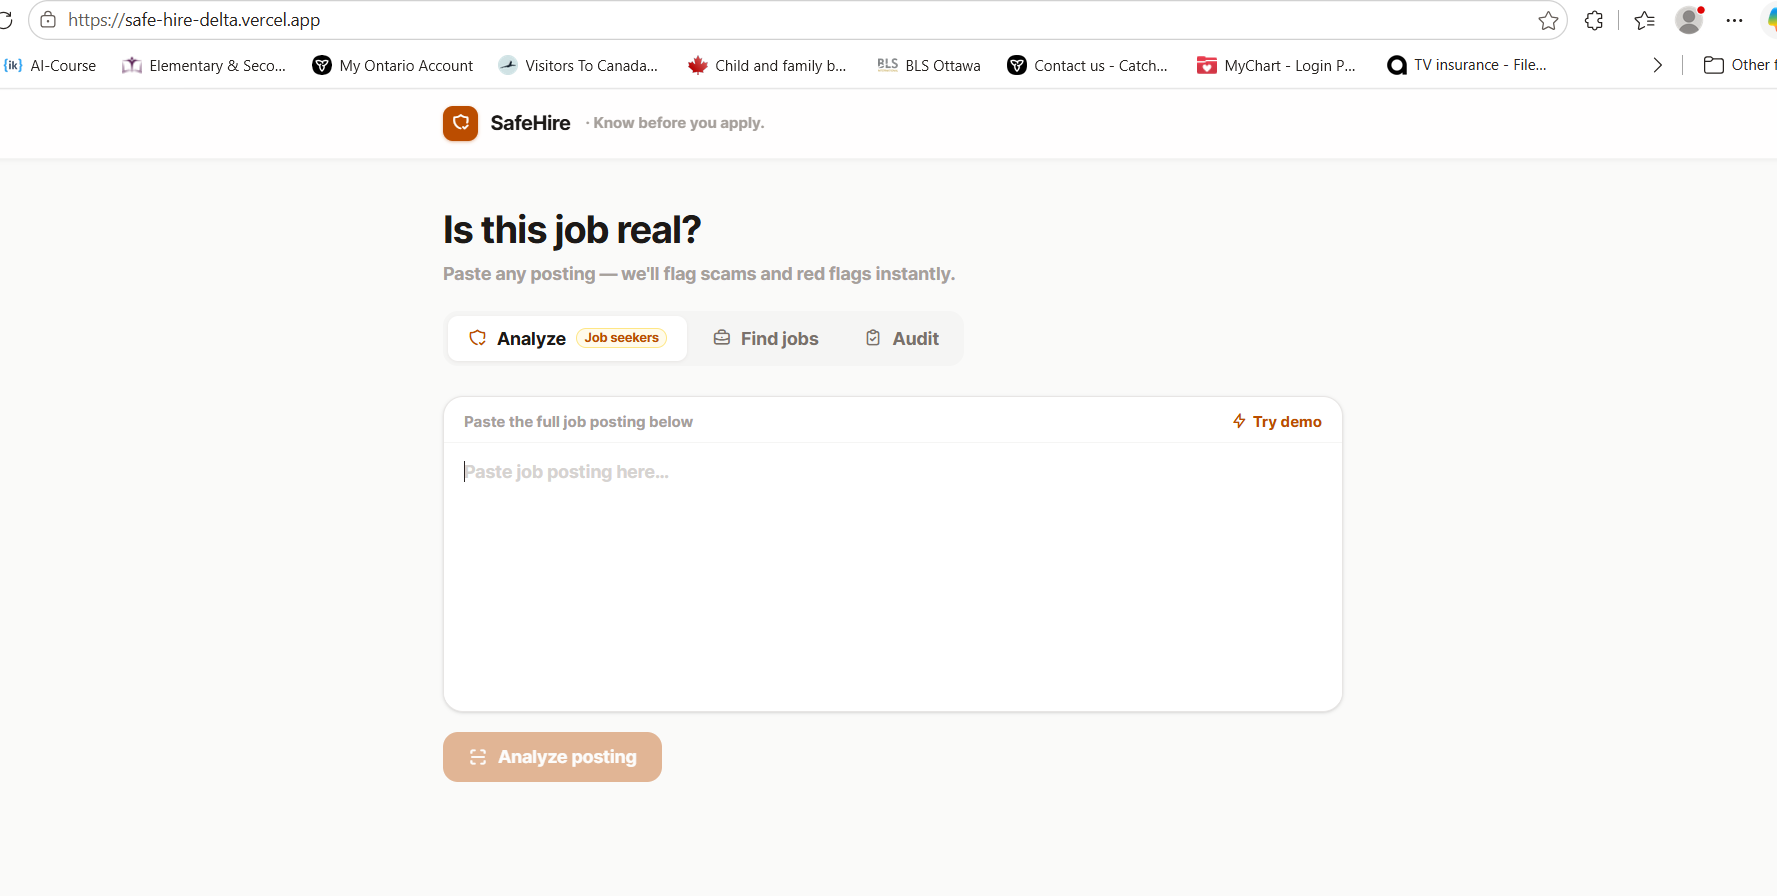
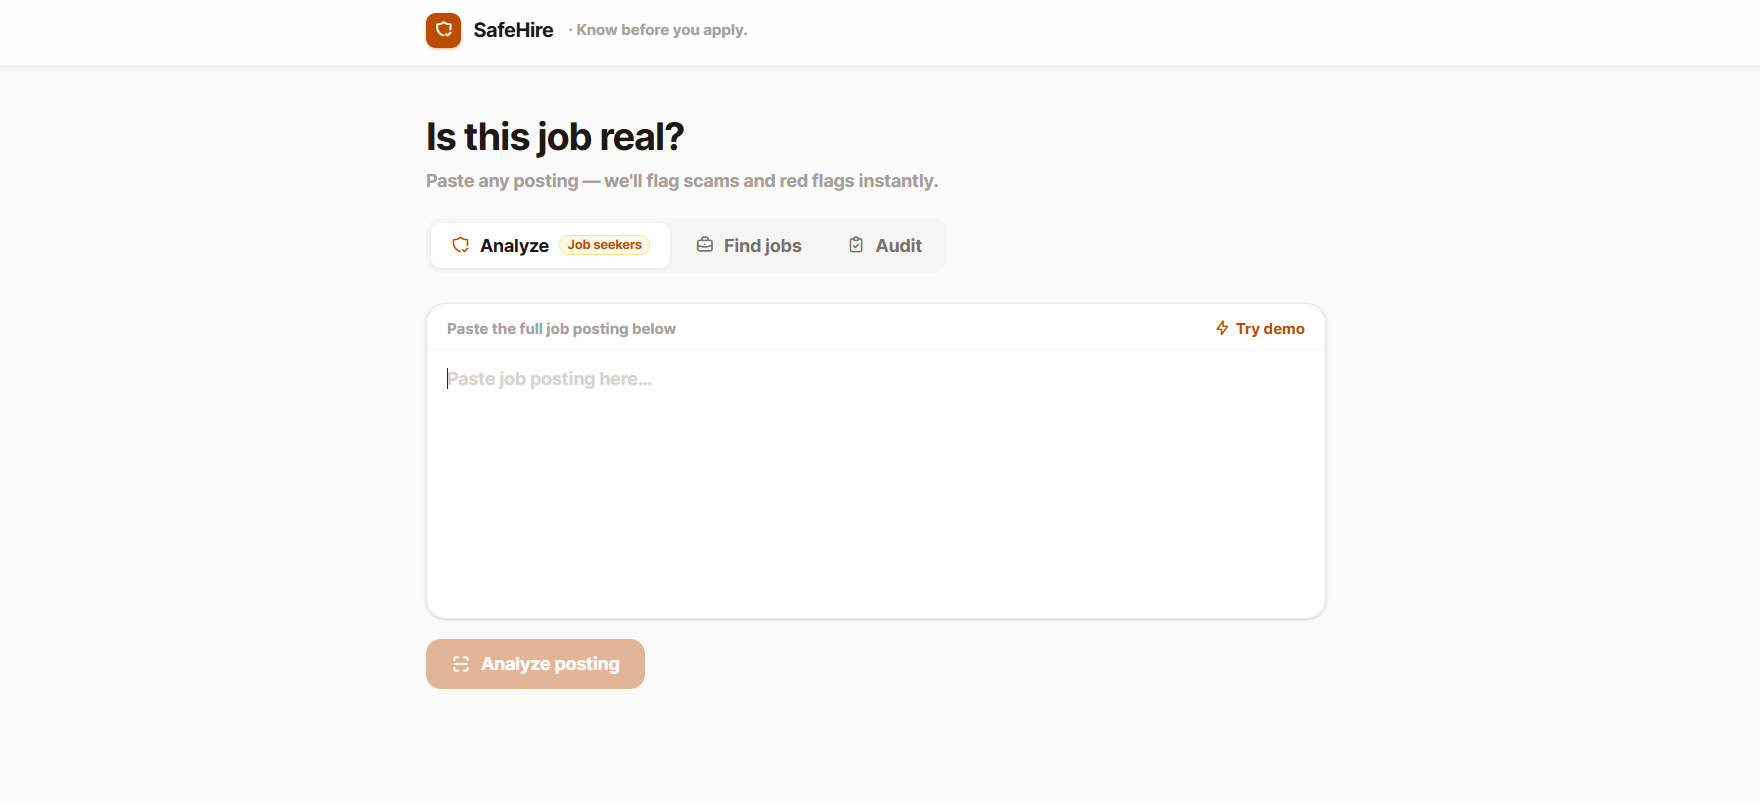
changes

diff --git a/src/lib/claude.ts b/src/lib/claude.ts
@@ -16,7 +16,7 @@ export async function analyzePosting(text: string): Promise<AnalysisResult> {
     method: "POST",
     headers: HEADERS,
     body: JSON.stringify({
-      model: "claude-sonnet-4-20250514",
+      model: "claude-opus-4-7",
       max_tokens: 1000,
       system:
         "You are a job posting fraud analyst. You must respond with ONLY a raw JSON object. " +
